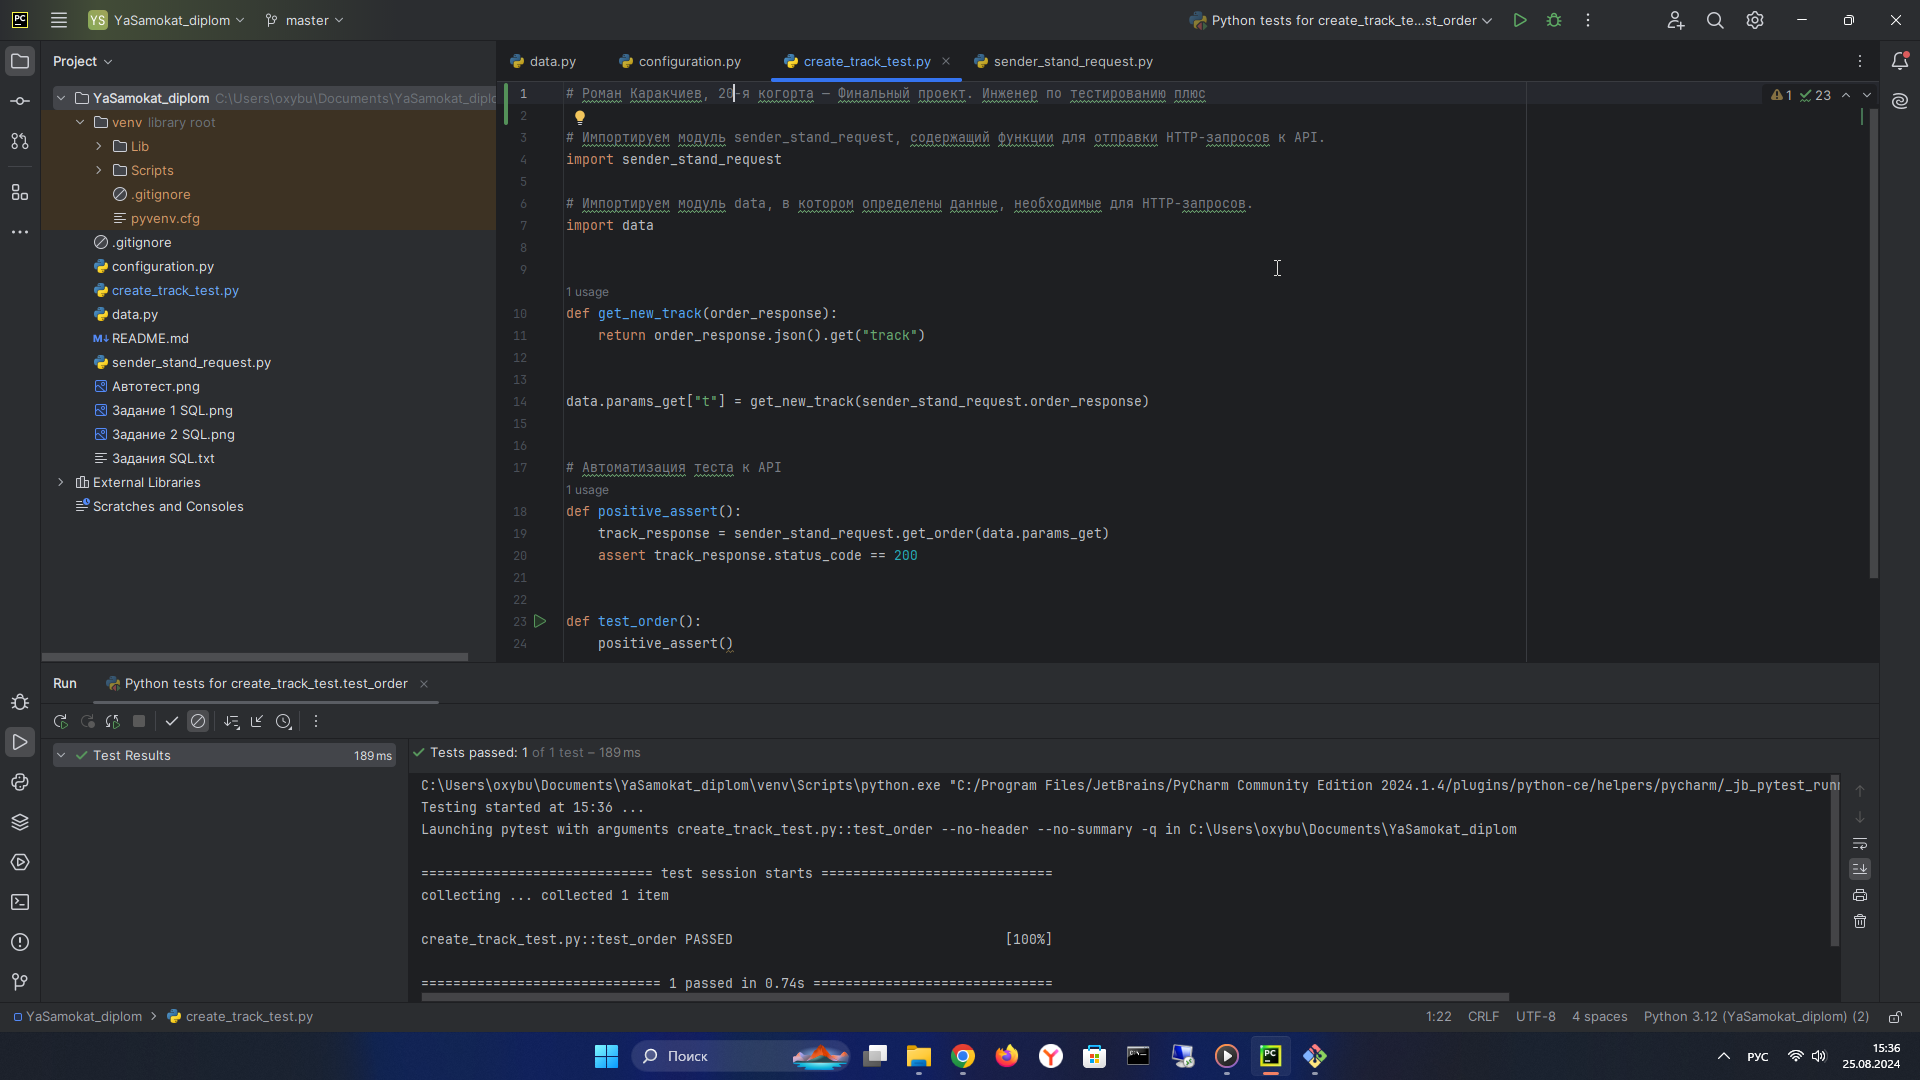
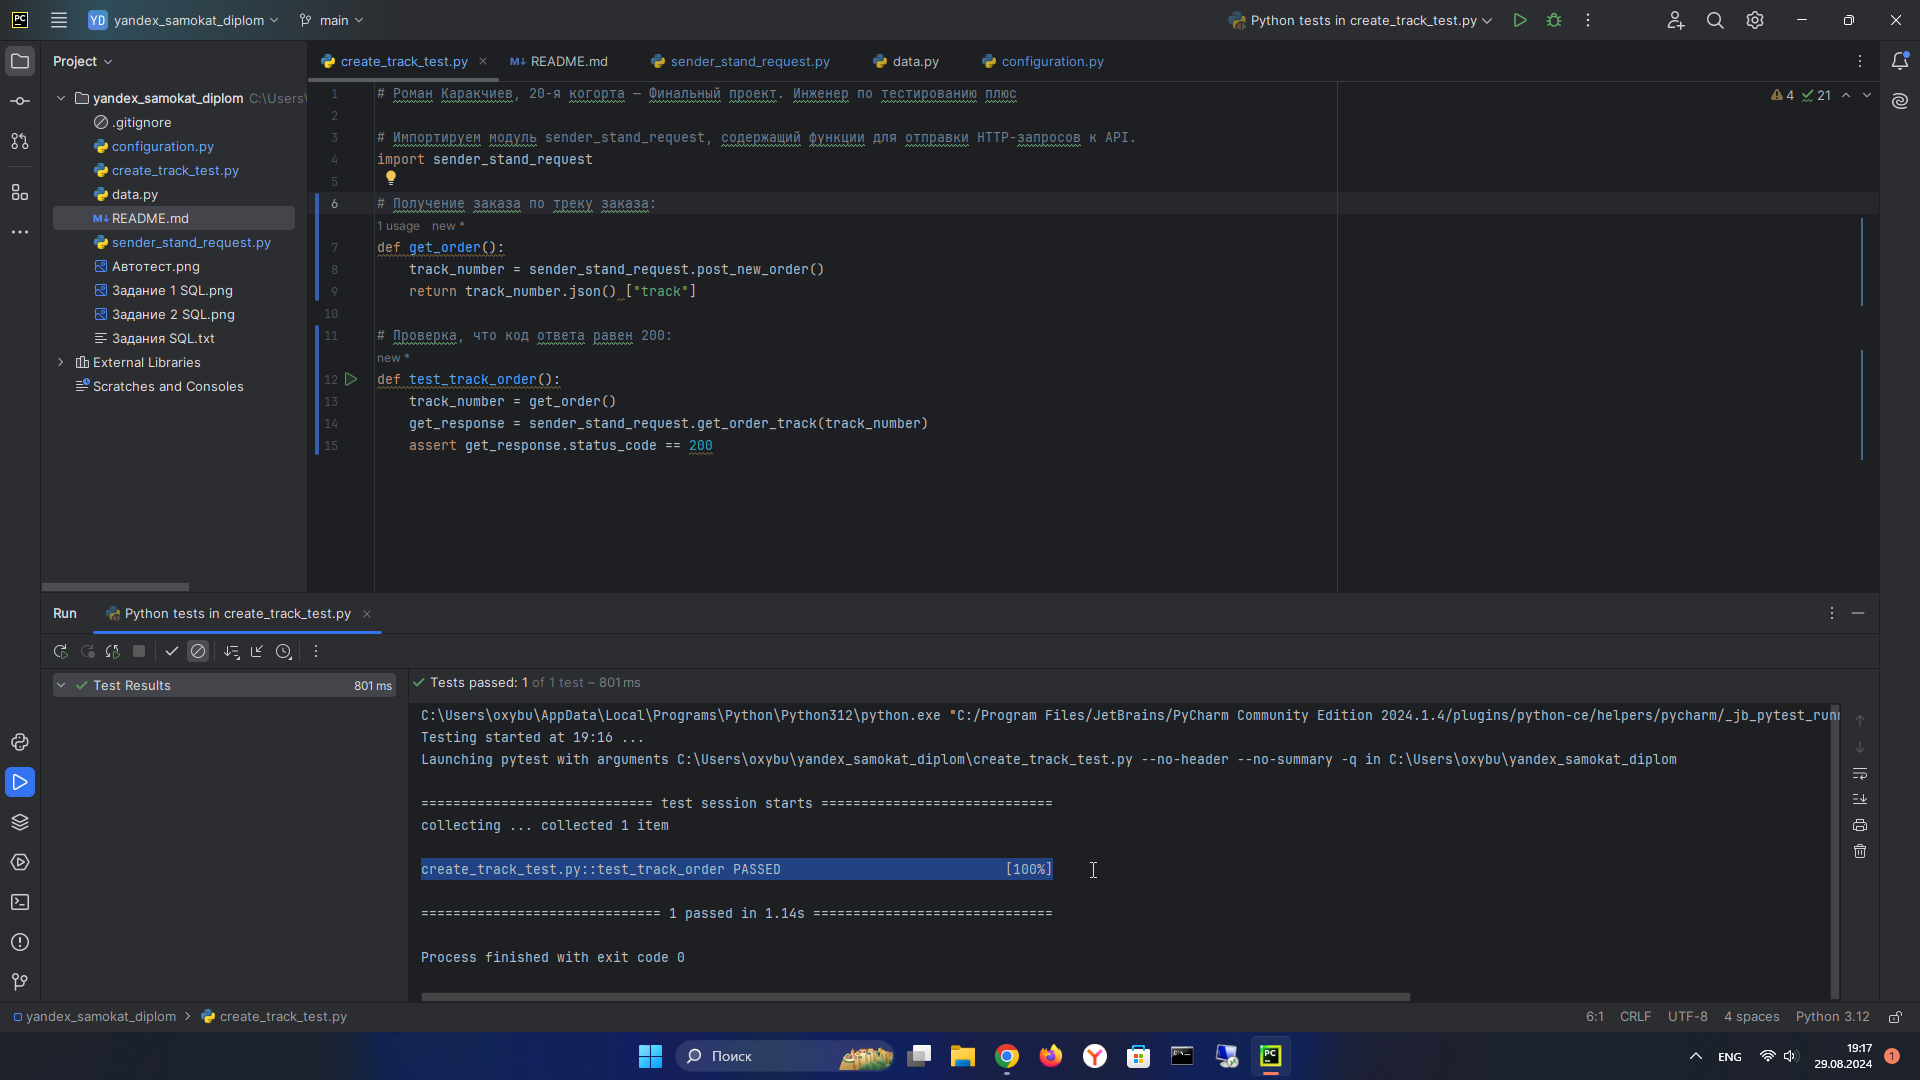
Fix_1

diff --git a/sender_stand_request.py b/sender_stand_request.py
@@ -8,19 +8,12 @@ import requests
 import data
 
 
-# Определение функции post_new_order для отправки POST-запроса на создание нового заказа
-def post_new_order(body):
-    # Выполнение POST-запроса с использованием URL из конфигурационного файла, тела запроса и заголовков
+# POST-запрос на создание нового заказа:
+def post_new_order():
     return requests.post(configuration.URL_SERVICE + configuration.CREATE_ORDER,
-                         json=body)
+    json = data.order_body)
 
-
-# Вызов функции post_new_user с телом запроса для создания нового пользователя из модуля data
-
-order_response = post_new_order(data.order_body)
-
-
-# Запрос на получение заказа по треку заказа
-def get_order(track_order):
-    return requests.get(configuration.URL_SERVICE+configuration.GET_ORDER,
-                        params=track_order)
+# GET-запрос на получение заказа по номеру трека:
+def get_order_track(track_number):
+    return requests.get(configuration.URL_SERVICE + configuration.GET_ORDER,
+                        params = {"t": track_number})

diff --git a/create_track_test.py b/create_track_test.py
@@ -3,22 +3,13 @@
 # Импортируем модуль sender_stand_request, содержащий функции для отправки HTTP-запросов к API.
 import sender_stand_request
 
-# Импортируем модуль data, в котором определены данные, необходимые для HTTP-запросов.
-import data
+# Получение заказа по треку заказа:
+def get_order():
+    track_number = sender_stand_request.post_new_order()
+    return track_number.json() ["track"]
 
-
-def get_new_track(order_response):
-    return order_response.json().get("track")
-
-
-data.params_get["t"] = get_new_track(sender_stand_request.order_response)
-
-
-# Автоматизация теста к API
-def positive_assert():
-    track_response = sender_stand_request.get_order(data.params_get)
-    assert track_response.status_code == 200
-
-
-def test_order():
-    positive_assert()
+# Проверка, что код ответа равен 200:
+def test_track_order():
+    track_number = get_order()
+    get_response = sender_stand_request.get_order_track(track_number)
+    assert get_response.status_code == 200

diff --git a/configuration.py b/configuration.py
@@ -1,5 +1,5 @@
 # URL_SERVICE хранит базовый URL веб-сервиса, который используется для доступа к API или другим ресурсам.
-URL_SERVICE = "https://290db08b-bfba-49e0-ad0e-117a86ff5973.serverhub.praktikum-services.ru/"
+URL_SERVICE = "https://41440ecb-ef1d-4fbc-9028-c83463cf6083.serverhub.praktikum-services.ru/"
 
 # CREATE_ORDER хранит путь к API-методу для создания нового заказа.
 CREATE_ORDER = "/api/v1/orders"
